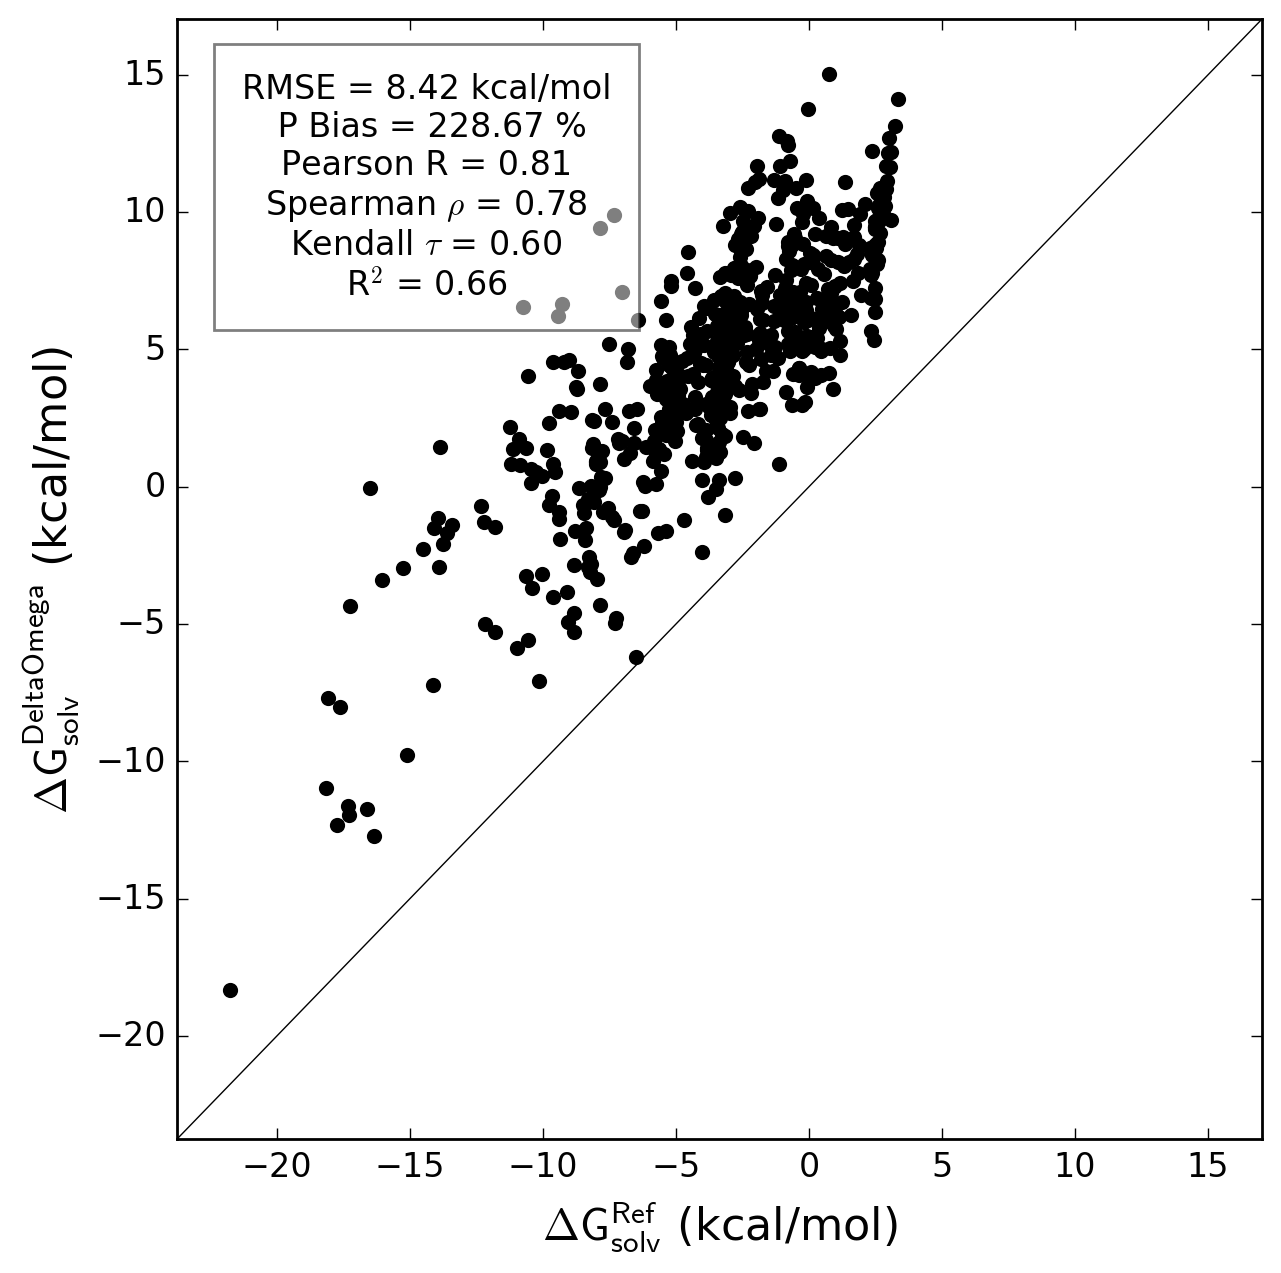
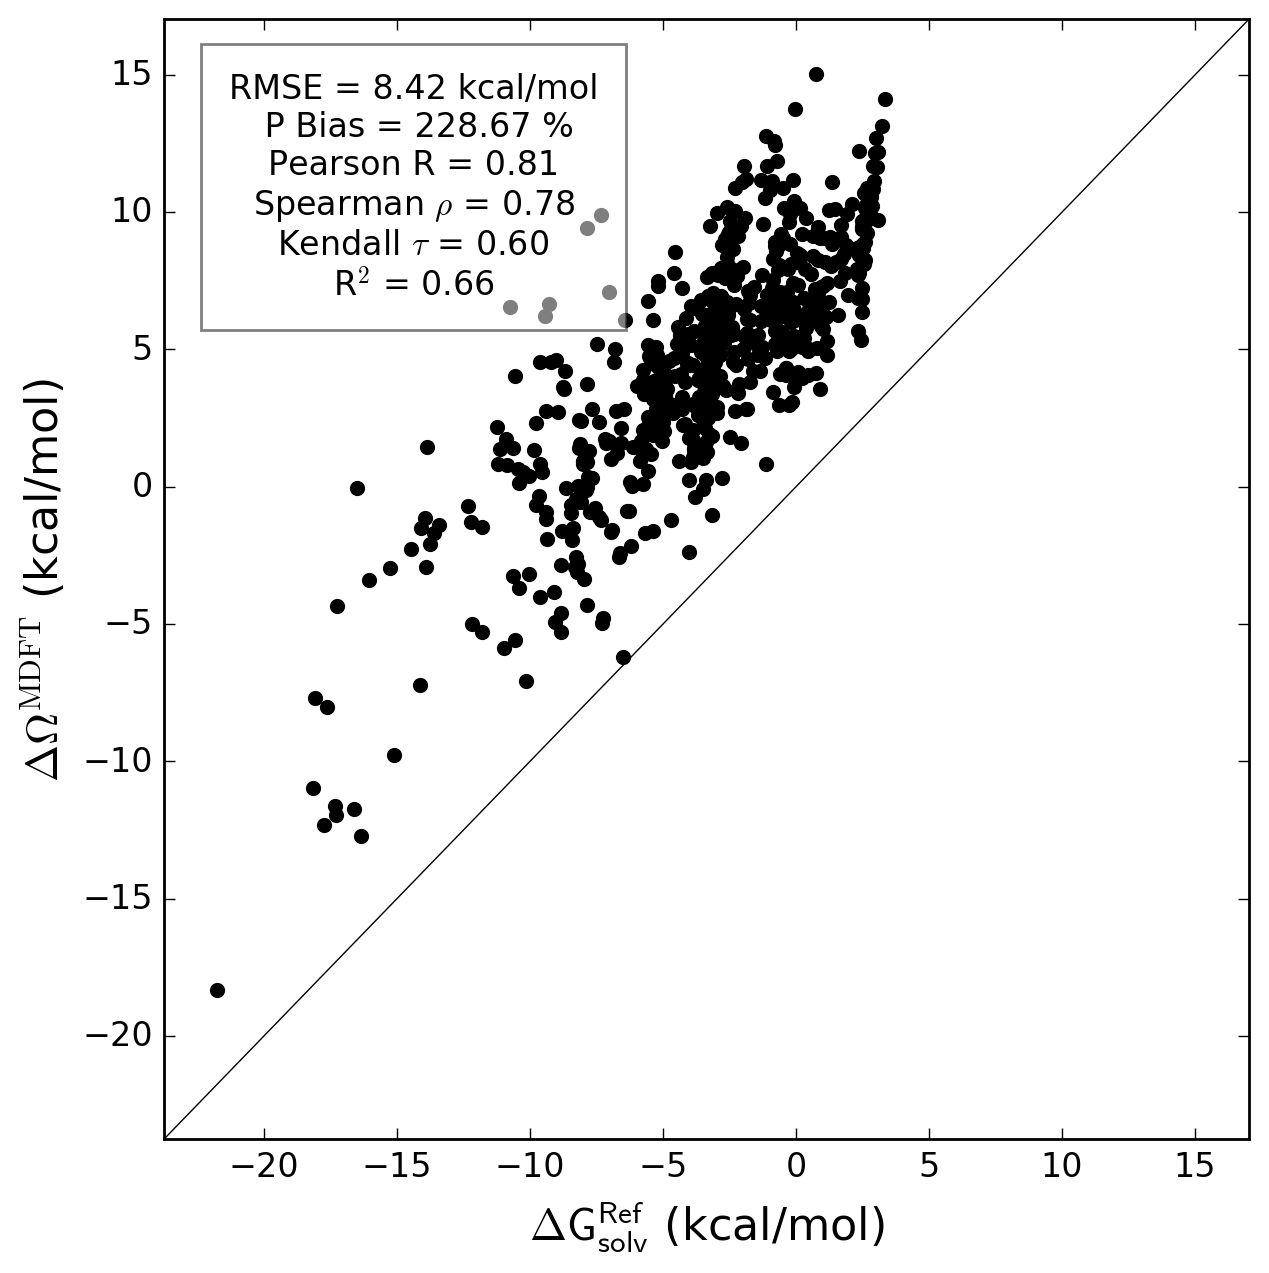
mise à jour des images \Delta\Omega

diff --git a/chapters/BDD/content.tex b/chapters/BDD/content.tex
@@ -12,7 +12,7 @@ Dans les chapitres précédents, nous avons testé et validé la théorie et son
 Dans ce chapitre nous nous concentrerons sur la base de données FreeSolv\cite{Mobley_small_2009}. Cette base de données est largement utilisée dans l'évaluation de méthodes de calcul d'énergie libres de solvatation. Elle est composée de 643 petites molécules neutres, accompagnées de nombreuses méta-données telles que leurs énergies libres de solvatation expérimentales issues de la littérature, leurs énergies libres de solvatation calculées par dynamique moléculaire et intégration thermodynamique ou encore les groupes chimiques qu'elles possèdent. Les paramètres quantitatifs sont parfois accompagnés de leur incertitude.
 
 \subsection{Les molécules}
-Lors de sa première publication, Freesolv, composée de 504 molécules, était le regroupement de la base de données de Rizzo et al\cite{Rizzo_estimation_2006} et de calculs précédemment effectués par David Mobley et ses collaborateurs. Depuis, David Mobley et al, ont concentré leurs efforts à la nettoyer\cite{Mobley_small_2009, Mobley_treating_2008, Mobley_comparison_2007, Mobley_predictions_2009, Beckstein_prediction_2011, Mobley_alchemical_2011, Mobley_blind_2014, Mobley_freesolv_2014, DuarteRamosMatos_approaches_2017} en supprimant les doublons, en vérifiant dans la littérature les valeurs des énergies libres de solvatation ou encore en essayant de peupler au mieux les zones sous-représentées de l'espace chimique. Le nombre de composés est aujourd'hui de 643. Ces molécules contiennent entre 3 et 44 atomes, pour des énergies libres de solvatation expérimentales entre -25,47 et 3,43 $\mathrm{kcal}.\mathrm{mol}^{-1}$. 
+Lors de sa première publication, FreeSolv, composée de 504 molécules, était le regroupement de la base de données de Rizzo et al\cite{Rizzo_estimation_2006} et de calculs précédemment effectués par David Mobley et ses collaborateurs. Depuis, David Mobley et al, ont concentré leurs efforts à la nettoyer\cite{Mobley_small_2009, Mobley_treating_2008, Mobley_comparison_2007, Mobley_predictions_2009, Beckstein_prediction_2011, Mobley_alchemical_2011, Mobley_blind_2014, Mobley_freesolv_2014, DuarteRamosMatos_approaches_2017} en supprimant les doublons, en vérifiant dans la littérature les valeurs des énergies libres de solvatation ou encore en essayant de peupler au mieux les zones sous-représentées de l'espace chimique. Le nombre de composés est aujourd'hui de 643. Ces molécules contiennent entre 3 et 44 atomes, pour des énergies libres de solvatation expérimentales entre -25,47 et 3,43 $\mathrm{kcal}.\mathrm{mol}^{-1}$. 
 
 \subsection{Les groupes chimiques}
 Comme on le voit dans le tableau \ref{tab:freeSolvGroupNumbers}, un ensemble de 73 groupes chimiques sont représentés. Par exemple, nous comptons 267 composés aromatiques, 88 hétérocycles contre seulement 1 sulfoxyde ou 1 acide sulfurique diester. Parmi les 643 molécules qui composent FreeSolv, seules 38 ne sont classées dans aucun groupe. Cette catégorisation nous permet une analyse en profondeur des points forts et faibles de MDFT en fonction de chaque groupe chimique.
@@ -194,9 +194,9 @@ On voit sur la figure \ref{fig:distrib_error_PC_PCPlus} que la MDFT, sans correc
 Au travers de cette étude, nous avons montré l'efficacité de la correction de pression \textit{PC} quelque soit le niveau de la théorie utilisée. Nous avons également montré que la correction de pression empirique \textit{PC+} permet de corriger simplement les approximations engendrées par l'utilisation d'un $\mathrm{m}_\mathrm{max}$=1.
 }
 
-
-\begin{figure}[H]
-   \begin{subfigure}[b]{0.9\textwidth}
+\begin{center}[H]
+\begin{figure}
+   \begin{subfigure}[b]{0.85\textwidth}
        \centering
        \resizebox{\linewidth}{!}{
          \includegraphics[width=\textwidth]{chapters/BDD/images/freesolv_1/error_distribution_calc_all.png}
@@ -204,7 +204,7 @@ Au travers de cette étude, nous avons montré l'efficacité de la correction de
        \caption{$\mathrm{m}_\mathrm{max}$=1}
        \label{fig:distrib_error_PC_PCPlus:mmax1}
     \end{subfigure}
-   \begin{subfigure}[b]{0.9\textwidth}
+   \begin{subfigure}[b]{0.85\textwidth}
        \centering
        \resizebox{\linewidth}{!}{
          \includegraphics[width=\textwidth]{chapters/BDD/images/freesolv_3/error_distribution_calc_all.png}
@@ -215,7 +215,7 @@ Au travers de cette étude, nous avons montré l'efficacité de la correction de
   \caption[Distribution de l'écart entre l'énergie libre de solvatation calculée par MDFT et par dynamique moléculaire sur la base de données FreeSolv.]{Distribution de l'écart entre l'énergie libre de solvatation calculée par MDFT et par dynamique moléculaire sur la base de données FreeSolv. En bleu, MDFT sans corrélation de pression, en vert MDFT avec la correction de pression \textit{PC} et en rouge, MDFT avec la correction de pression \textit{PC+}, pour $\mathrm{m}_\mathrm{max}$=1 et 3.}
   \label{fig:distrib_error_PC_PCPlus}
 \end{figure}
-
+\end{center}
 
 
 \subsection{Le bridge gros grain}
@@ -359,7 +359,7 @@ C'est dans le but de reproduire les énergies libres de solvatation expérimenta
   \label{fig:diaryl_ether}
 \end{figure}
 
-Dans un premier temps, on voit que la dynamique moléculaire et donc le champ de force est moins précis pour les diaryl ether, les alkylamines ou encore les carbonitriles. Ces résultats sont cependant à prendre avec précaution car ces groupes peuvent être peuplés par des molécules similaires comme c'est le cas pour les éthers de diaryle (voir figure \ref{fig:diaryl_ether}). En effet, la base de données Freesolv est issue de la littérature et il est fréquent que des molécules soient étudiées par séries. Dans le cas des diaryle ether, cette série de molécules, correspond à la fraction d'une série plus importante qui a été utilisée lors du challenge SAMPL3\cite{Geballe_sampl_2012}. Ces déséquilibres n'ont cependant aucun impact sur la comparaison de la dynamique moléculaire et de la MDFT car le biais est identique dans les deux cas.
+Dans un premier temps, on voit que la dynamique moléculaire et donc le champ de force est moins précis pour les diaryl ether, les alkylamines ou encore les carbonitriles. Ces résultats sont cependant à prendre avec précaution car ces groupes peuvent être peuplés par des molécules similaires comme c'est le cas pour les éthers de diaryle (voir figure \ref{fig:diaryl_ether}). En effet, la base de données FreeSolv est issue de la littérature et il est fréquent que des molécules soient étudiées par séries. Dans le cas des diaryle ether, cette série de molécules, correspond à la fraction d'une série plus importante qui a été utilisée lors du challenge SAMPL3\cite{Geballe_sampl_2012}. Ces déséquilibres n'ont cependant aucun impact sur la comparaison de la dynamique moléculaire et de la MDFT car le biais est identique dans les deux cas.
 
 Cette étude nous permet également de confirmer deux points faibles de MDFT: l'hydrophobicité (voir chapitre \ref{chap:bridge}) et les charges partielles\cite{ding_thesis}. En effet, les différences les plus importantes entre les deux méthodes sont obtenues pour les oxo(het)arenes (charges partielles), les amines primaires aliphatiques(charges partielles), les alkyl aryl éthers(charges partielles, hydrophobe), les amines primaires(charges partielles) et les amines primaires aromatiques (charges partielles, hydrophobe). 
 
@@ -400,7 +400,7 @@ En ce qui concerne les cations, MDFT et la dynamique moléculaire sous-estiment 
 Au contraire, pour les anions, la valeur est sur-estimée de quelques kcal.mol$^{-1}$ seulement par la dynamique moléculaire et de quelques dizaines de kcal.mol$^{-1}$ par MDFT. La théorie de la MDFT dans l'approximation HNC n'est donc pas optimisée pour la solvatation d'ions négatifs. 
 
 \boitesimple{
-Cette étude nous a permis de détecter deux problèmes majeurs dans l'étude des ions. Dans les cas des composés chargés positivement, le champ de force ne semble pas adapté, alors que dans le cas des composés chargés négativement, la théorie MDFT est en cause. Ces résultats sont en accord avec ceux obtenus sur la base de données Freesolv. En effet, MDFT apparaissait le moins précis sur les composés comportant des hétéroatomes : les oxygènes et les azotes étant fortement chargés négativement.
+Cette étude nous a permis de détecter deux problèmes majeurs dans l'étude des ions. Dans les cas des composés chargés positivement, le champ de force ne semble pas adapté, alors que dans le cas des composés chargés négativement, la théorie MDFT est en cause. Ces résultats sont en accord avec ceux obtenus sur la base de données FreeSolv. En effet, MDFT apparaissait le moins précis sur les composés comportant des hétéroatomes : les oxygènes et les azotes étant fortement chargés négativement.
 }
 
 

diff --git a/chapters/Conclusion/content.tex b/chapters/Conclusion/content.tex
@@ -1,6 +1,6 @@
 \chapter{Conclusion}
 \label{chap:conclusion}
-Le développement d'un nouveau médicament est un processus long et couteux. Entre la détermination d'une cible thérapeutique et la mise sur le marché d'un nouveau médicament, plus de dix ans de recherches sont nécessaire pour un coût supérieur à un milliard d'euros.
+Le développement d'un nouveau médicament est un processus long et co\^uteux. Entre la détermination d'une cible thérapeutique et la mise sur le marché d'un nouveau médicament, plus de dix ans de recherches sont nécessaire pour un coût supérieur à un milliard d'euros.
 L'accélération de ce processus et donc la réduction de son coût reste un enjeux majeur. Pour y parvenir, les simulations numériques, peu couteuses et rapides, sont massivement utilisées. Malgré cela, elles restent limitées à cause de la quantité très importante de molécule de solvant.
 
 
@@ -8,7 +8,7 @@ La théorie de la fonctionnelle de la densité moléculaire permet d'étudier la
 Ces grandeurs étant à la base de nombreux autres calculs utilisées par l'industrie pharmaceutique, la MDFT ouvre donc une autre voie d'optimisation de ces process.
 
 
-Durant ma thèse, mon travail à consister à effectuer les premiers pas vers des applications biologiques. Cette thèse c'est déroulée en trois étapes majeures. La première consistait à adapter la théorie à des macro-molécules biologiques. Pour cela, nous avons développé une version à symétrie sphérique de la Théorie de la Fonctionnelle de la Densité Moléculaire. Cette version, simplifiée et plus rapide, nous à permi de paramétriser un nouveau bridge: le bridge gros grain.
+Durant ma thèse, mon travail à consister à effectuer les premiers pas vers des applications biologiques. Cette thèse c'est déroulée en trois étapes majeures. La première consistait à adapter la théorie à des macro-molécules biologiques. Pour cela, nous avons développé une version à symétrie sphérique de la théorie de la fonctionnelle de la densité moléculaire. Cette version, simplifiée et plus rapide, nous à permi de paramétriser un nouveau bridge: le bridge gros grain.
 Ce bridge, basé sur une densité gros grain ajoute de la consistance thermodynamique à nos modèles, en reproduisant une pression et une tension de surface correcte. Il améliore également le calcul de l’énergie libre de solvatation et la prédiction de la structure du solvant, sur les petites molécules mais également sur des molécules plus grosses comme des systèmes biologiques.
 
 
